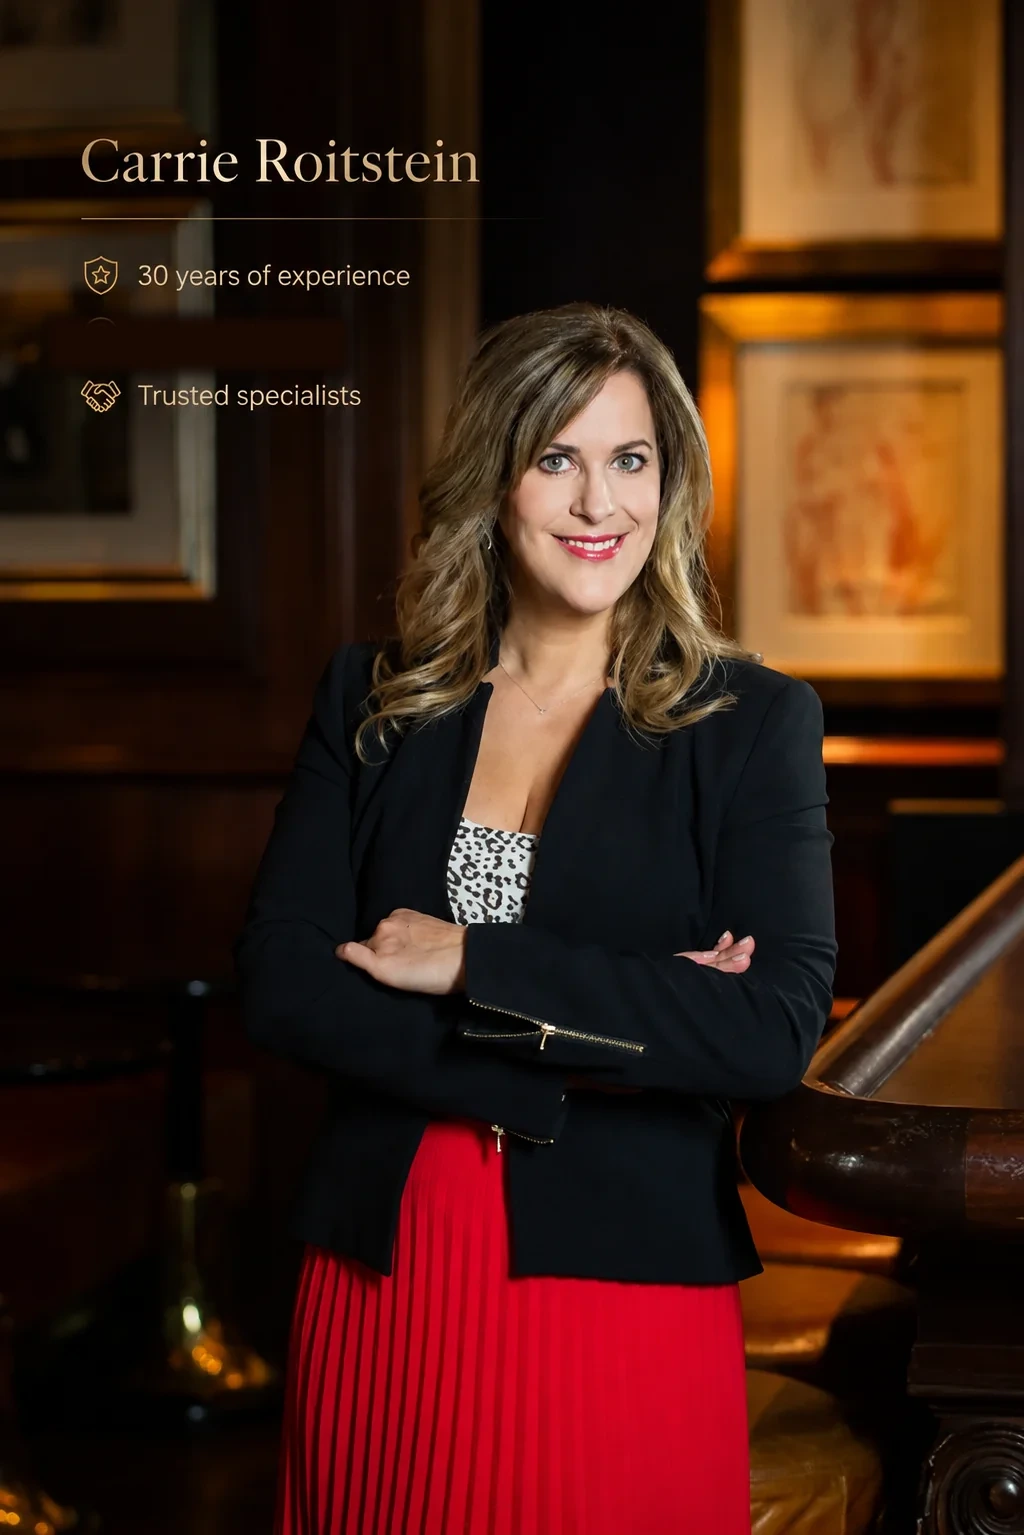
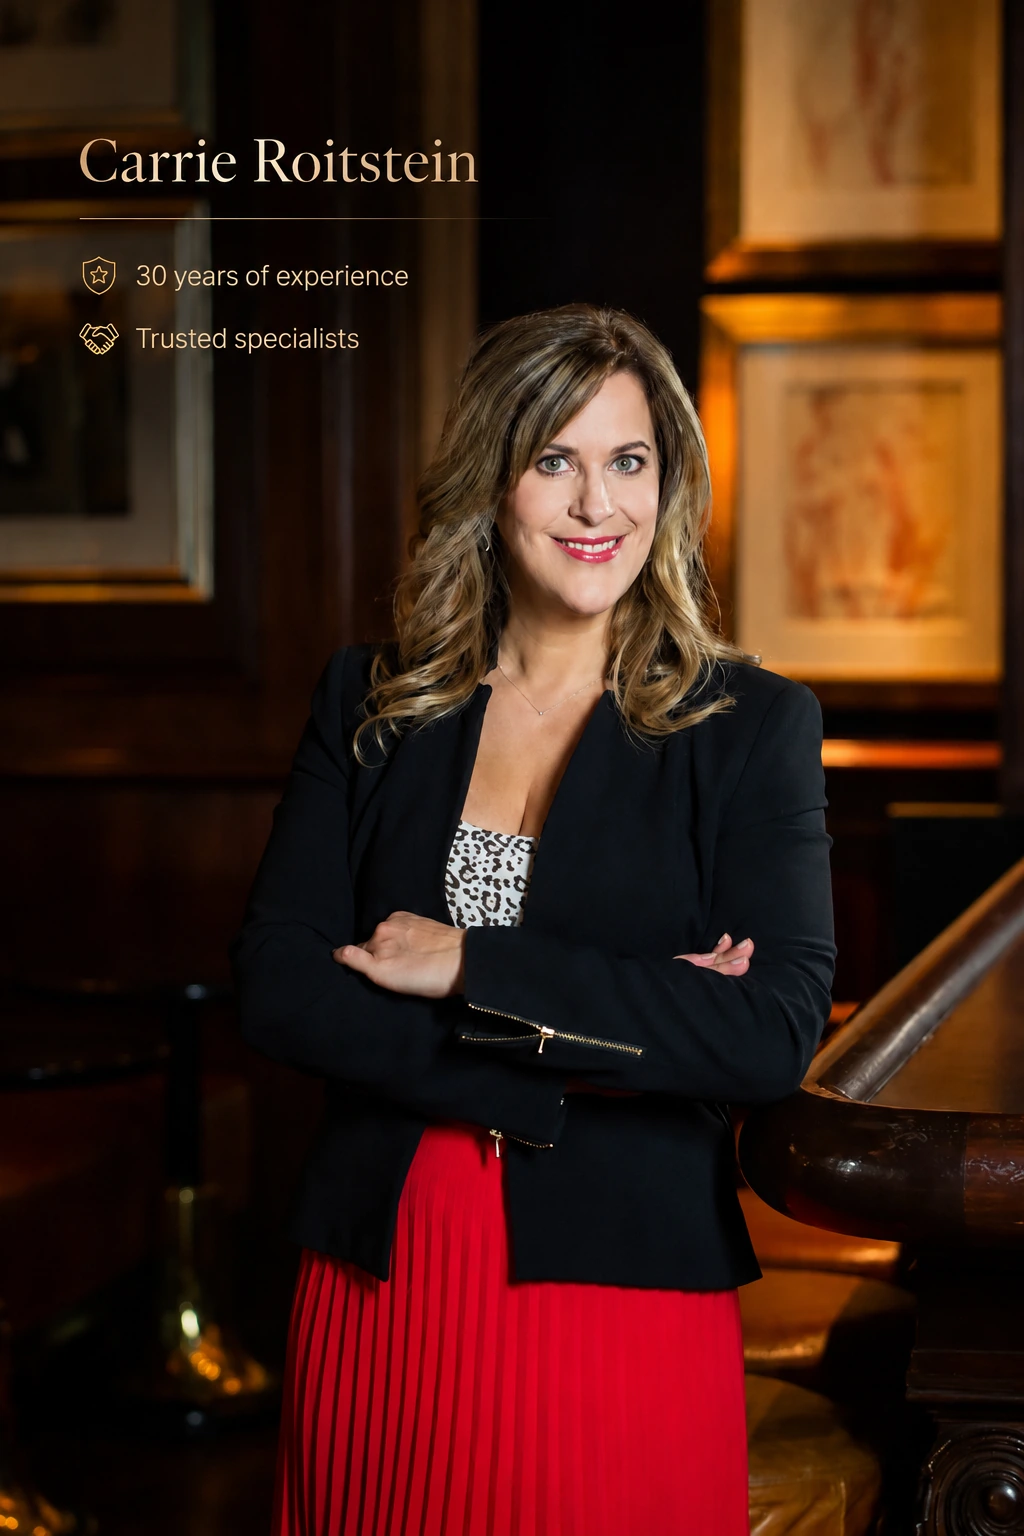
Replace integrative section photo with designer's clean version

diff --git a/index.html b/index.html
@@ -386,7 +386,7 @@
 <section class="bg-card" style="border-top: 1px solid var(--line);">
   <div class="container">
     <div class="split">
-      <div class="split-image" data-tone="warm" data-anim="rise" style="aspect-ratio: 3/4; background-image: url('images/hero/integrative.webp?v=2'); background-size: cover; background-position: center top; border: 0; border-radius: 20px;"></div>
+      <div class="split-image" data-tone="warm" data-anim="rise" style="aspect-ratio: 3/4; background-image: url('images/hero/integrative.webp?v=3'); background-size: cover; background-position: center top; border: 0; border-radius: 20px;"></div>
       <div>
         <span class="eyebrow reveal">The Integrative Difference</span>
         <h2 class="reveal">Eye care that focuses on the whole&nbsp;person.</h2>
